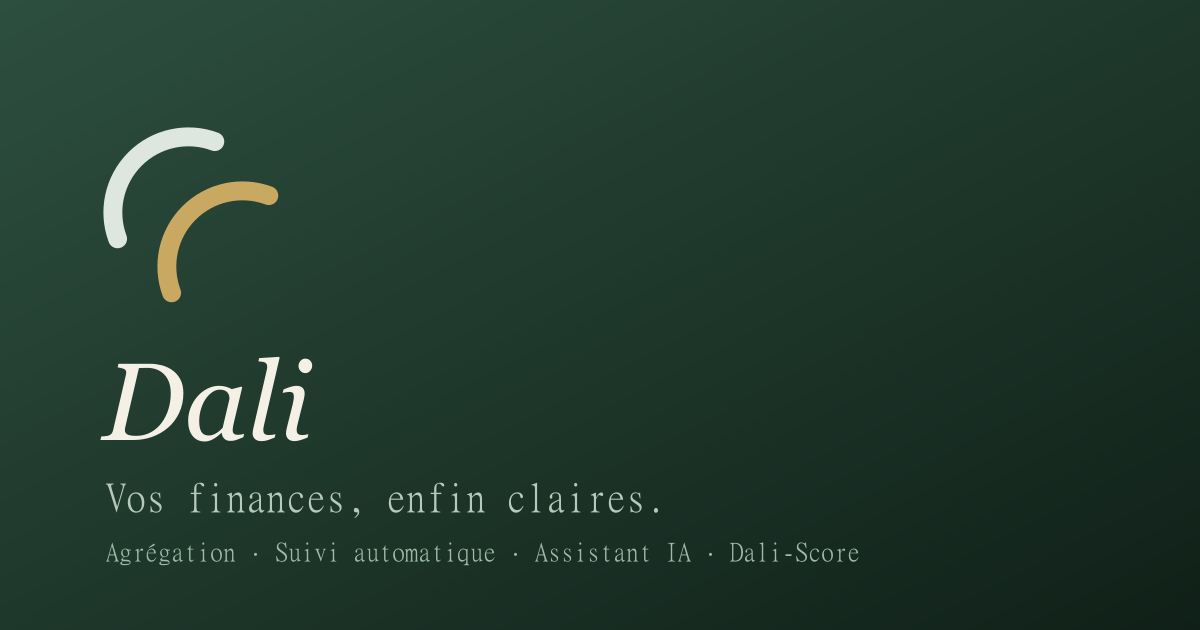
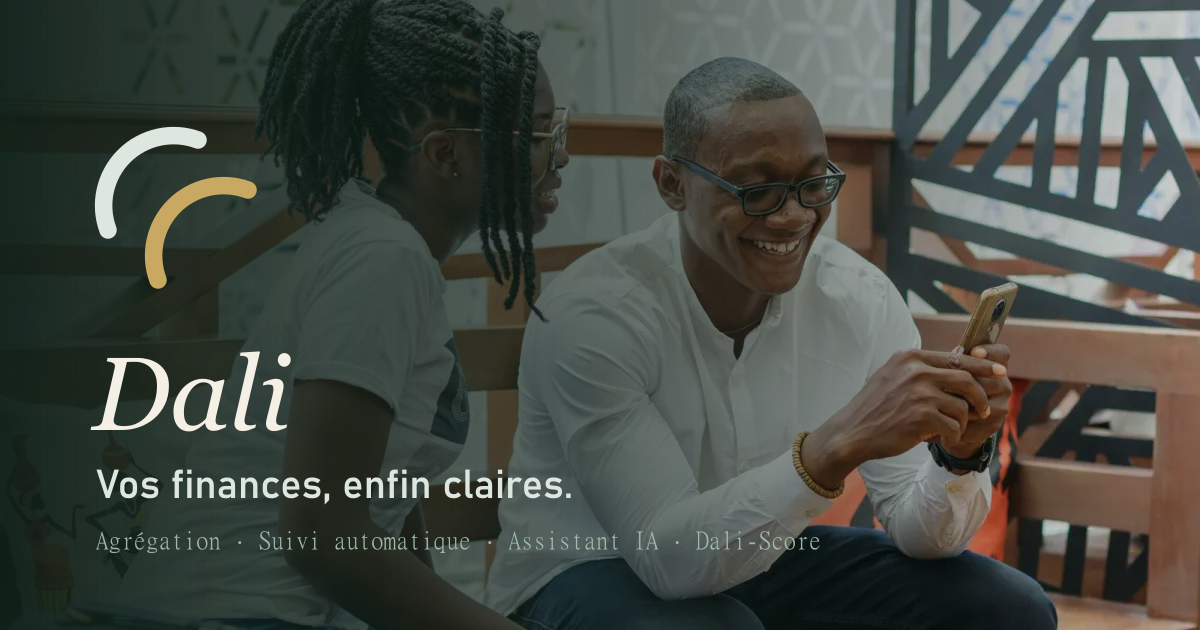
feat: OG image with hero photo; per-page metadata/titles (title template + hreflang + OG) across all routes

diff --git a/src/lib/seo.ts b/src/lib/seo.ts
@@ -7,15 +7,33 @@ function join(locale: string, path: string): string {
 
 const SITE_URL = process.env.NEXT_PUBLIC_SITE_URL ?? 'https://dali.app';
 
+function alternates(locale: string, path: string) {
+  const languages = Object.fromEntries(routing.locales.map((l) => [l, join(l, path)]));
+  return { canonical: join(locale, path), languages };
+}
+
+// Home / FAQ: self-contained titles (already include the brand) — kept absolute so the
+// layout's "%s · Dali" template does not double the brand name.
 export function buildMetadata({
   locale, path, title, description,
 }: { locale: string; path: string; title: string; description: string }): Metadata {
-  const languages = Object.fromEntries(routing.locales.map((l) => [l, join(l, path)]));
   return {
     metadataBase: new URL(SITE_URL),
+    title: { absolute: title },
+    description,
+    alternates: alternates(locale, path),
+    openGraph: { title, description, locale, type: 'website', images: ['/og.png'] },
+  };
+}
+
+// Secondary pages: plain string title → wrapped by the layout template into "<title> · Dali".
+export function pageMetadata({
+  locale, path, title, description,
+}: { locale: string; path: string; title: string; description: string }): Metadata {
+  return {
     title,
     description,
-    alternates: { canonical: join(locale, path), languages },
+    alternates: alternates(locale, path),
     openGraph: { title, description, locale, type: 'website', images: ['/og.png'] },
   };
 }

diff --git a/src/app/[locale]/layout.tsx b/src/app/[locale]/layout.tsx
@@ -1,12 +1,24 @@
+import type { Metadata } from 'next';
 import { notFound } from 'next/navigation';
 import { NextIntlClientProvider } from 'next-intl';
-import { getMessages, setRequestLocale } from 'next-intl/server';
+import { getMessages, getTranslations, setRequestLocale } from 'next-intl/server';
 import { routing } from '@/i18n/routing';
 import { inter } from '@/lib/fonts';
 import '../globals.css';
 
 export function generateStaticParams() {
   return routing.locales.map((locale) => ({ locale }));
+}
+
+export async function generateMetadata({ params }: { params: Promise<{ locale: string }> }): Promise<Metadata> {
+  const { locale } = await params;
+  const t = await getTranslations({ locale, namespace: 'meta' });
+  return {
+    metadataBase: new URL(process.env.NEXT_PUBLIC_SITE_URL ?? 'https://dali.app'),
+    title: { default: t('homeTitle'), template: '%s · Dali' },
+    description: t('homeDesc'),
+    openGraph: { type: 'website', images: ['/og.png'] },
+  };
 }
 
 export default async function LocaleLayout({

diff --git a/src/app/[locale]/(marketing)/a-propos/page.tsx b/src/app/[locale]/(marketing)/a-propos/page.tsx
@@ -1,5 +1,13 @@
-import { setRequestLocale } from 'next-intl/server';
+import type { Metadata } from 'next';
+import { setRequestLocale, getTranslations } from 'next-intl/server';
 import { PageHeader } from '@/components/marketing/PageHeader';
+import { pageMetadata } from '@/lib/seo';
+
+export async function generateMetadata({ params }: { params: Promise<{ locale: string }> }): Promise<Metadata> {
+  const { locale } = await params;
+  const t = await getTranslations({ locale, namespace: 'pages.about' });
+  return pageMetadata({ locale, path: '/a-propos', title: t('title'), description: t('body') });
+}
 
 export default async function AboutPage({ params }: { params: Promise<{ locale: string }> }) {
   const { locale } = await params;

diff --git a/src/app/[locale]/(marketing)/fonctionnalites/page.tsx b/src/app/[locale]/(marketing)/fonctionnalites/page.tsx
@@ -1,7 +1,15 @@
-import { setRequestLocale } from 'next-intl/server';
+import type { Metadata } from 'next';
+import { setRequestLocale, getTranslations } from 'next-intl/server';
 import { PageHeader } from '@/components/marketing/PageHeader';
 import { FeatureBlock } from '@/components/marketing/FeatureBlock';
 import { AiBlock } from '@/components/marketing/AiBlock';
+import { pageMetadata } from '@/lib/seo';
+
+export async function generateMetadata({ params }: { params: Promise<{ locale: string }> }): Promise<Metadata> {
+  const { locale } = await params;
+  const t = await getTranslations({ locale, namespace: 'pages.features' });
+  return pageMetadata({ locale, path: '/fonctionnalites', title: t('title'), description: t('body') });
+}
 
 export default async function FeaturesPage({ params }: { params: Promise<{ locale: string }> }) {
   const { locale } = await params;

diff --git a/src/app/[locale]/(marketing)/legal/conditions/page.tsx b/src/app/[locale]/(marketing)/legal/conditions/page.tsx
@@ -1,5 +1,13 @@
-import { setRequestLocale } from 'next-intl/server';
+import type { Metadata } from 'next';
+import { setRequestLocale, getTranslations } from 'next-intl/server';
 import { LegalPage } from '@/components/marketing/LegalPage';
+import { pageMetadata } from '@/lib/seo';
+
+export async function generateMetadata({ params }: { params: Promise<{ locale: string }> }): Promise<Metadata> {
+  const { locale } = await params;
+  const t = await getTranslations({ locale, namespace: 'legal.conditions' });
+  return pageMetadata({ locale, path: '/legal/conditions', title: t('title'), description: t('body') });
+}
 
 export default async function Page({ params }: { params: Promise<{ locale: string }> }) {
   const { locale } = await params;

diff --git a/src/app/[locale]/(marketing)/legal/confidentialite/page.tsx b/src/app/[locale]/(marketing)/legal/confidentialite/page.tsx
@@ -1,5 +1,13 @@
-import { setRequestLocale } from 'next-intl/server';
+import type { Metadata } from 'next';
+import { setRequestLocale, getTranslations } from 'next-intl/server';
 import { LegalPage } from '@/components/marketing/LegalPage';
+import { pageMetadata } from '@/lib/seo';
+
+export async function generateMetadata({ params }: { params: Promise<{ locale: string }> }): Promise<Metadata> {
+  const { locale } = await params;
+  const t = await getTranslations({ locale, namespace: 'legal.confidentialite' });
+  return pageMetadata({ locale, path: '/legal/confidentialite', title: t('title'), description: t('body') });
+}
 
 export default async function Page({ params }: { params: Promise<{ locale: string }> }) {
   const { locale } = await params;

diff --git a/src/app/[locale]/(marketing)/legal/cookies/page.tsx b/src/app/[locale]/(marketing)/legal/cookies/page.tsx
@@ -1,5 +1,13 @@
-import { setRequestLocale } from 'next-intl/server';
+import type { Metadata } from 'next';
+import { setRequestLocale, getTranslations } from 'next-intl/server';
 import { LegalPage } from '@/components/marketing/LegalPage';
+import { pageMetadata } from '@/lib/seo';
+
+export async function generateMetadata({ params }: { params: Promise<{ locale: string }> }): Promise<Metadata> {
+  const { locale } = await params;
+  const t = await getTranslations({ locale, namespace: 'legal.cookies' });
+  return pageMetadata({ locale, path: '/legal/cookies', title: t('title'), description: t('body') });
+}
 
 export default async function Page({ params }: { params: Promise<{ locale: string }> }) {
   const { locale } = await params;

diff --git a/src/app/[locale]/(marketing)/entreprises/page.tsx b/src/app/[locale]/(marketing)/entreprises/page.tsx
@@ -1,3 +1,4 @@
+import type { Metadata } from 'next';
 import { setRequestLocale, getTranslations } from 'next-intl/server';
 import { Section } from '@/components/ui/Section';
 import { Container } from '@/components/ui/Container';
@@ -5,8 +6,15 @@ import { Card } from '@/components/ui/Card';
 import { Badge } from '@/components/ui/Badge';
 import { Button } from '@/components/ui/Button';
 import { Reveal } from '@/components/motion/Reveal';
+import { pageMetadata } from '@/lib/seo';
 
 const ITEMS = ['payments', 'data', 'insights'] as const;
+
+export async function generateMetadata({ params }: { params: Promise<{ locale: string }> }): Promise<Metadata> {
+  const { locale } = await params;
+  const t = await getTranslations({ locale, namespace: 'pages.enterprise' });
+  return pageMetadata({ locale, path: '/entreprises', title: t('title'), description: t('body') });
+}
 
 export default async function EnterprisePage({ params }: { params: Promise<{ locale: string }> }) {
   const { locale } = await params;

diff --git a/src/app/[locale]/(marketing)/securite/page.tsx b/src/app/[locale]/(marketing)/securite/page.tsx
@@ -1,9 +1,17 @@
+import type { Metadata } from 'next';
 import { setRequestLocale, getTranslations } from 'next-intl/server';
 import { PageHeader } from '@/components/marketing/PageHeader';
 import { Section } from '@/components/ui/Section';
 import { Container } from '@/components/ui/Container';
 import { Card } from '@/components/ui/Card';
 import { Reveal } from '@/components/motion/Reveal';
+import { pageMetadata } from '@/lib/seo';
+
+export async function generateMetadata({ params }: { params: Promise<{ locale: string }> }): Promise<Metadata> {
+  const { locale } = await params;
+  const t = await getTranslations({ locale, namespace: 'pages.security' });
+  return pageMetadata({ locale, path: '/securite', title: t('title'), description: t('body') });
+}
 
 export default async function SecurityPage({ params }: { params: Promise<{ locale: string }> }) {
   const { locale } = await params;